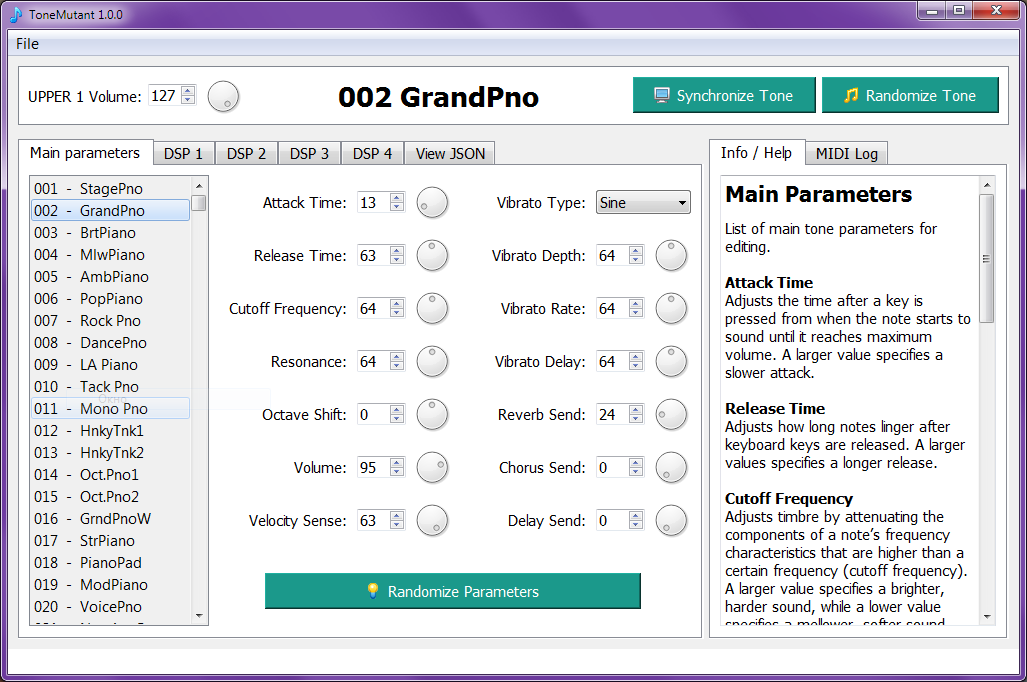
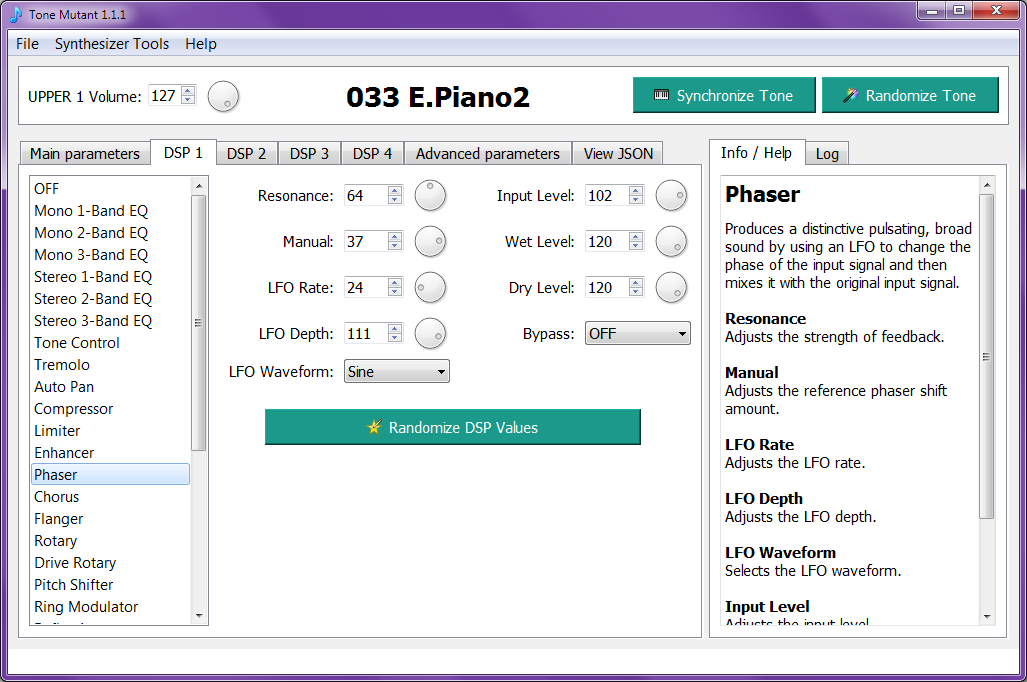
version 1.1.1

diff --git a/models/tone.py b/models/tone.py
@@ -77,28 +77,28 @@ class Tone:
             AdvancedParameter(4, 22, 0, "Sound B Wavetable",
                               "Wavetable of Sound B. Sound B is utilized for various supplementary events, such as note-off or double-stop effects, depending on the specific tone",
                               ParameterType.COMBO, [str(i) for i in range(901)]),
-            AdvancedParameter(5, 41, 0, "Sound B for Note-off",
+            AdvancedParameter(5, 114, 0, "Monophonic Mode",
+                              "In monophonic mode, the synthesizer produces only one note at a time, regardless of how many keys are pressed. If multiple keys are pressed simultaneously or in succession, the most recent key pressed takes priority and becomes the only note that sounds.",
+                              ParameterType.COMBO, ["OFF", "ON"]),
+            AdvancedParameter(6, 116, 0, "Portamento",
+                              "Portamento lets the sound slide smoothly from one note to the next instead of jumping.",
+                              ParameterType.COMBO, ["OFF", "ON", "Legato"]),
+            AdvancedParameter(7, 107, 0, "Portamento Time",
+                              "Portamento time controls how long it takes to slide from one note to another. A shorter time makes the slide quick, while a longer time creates a slow, smooth glide.",
+                              ParameterType.KNOB, [0, 127]),
+            AdvancedParameter(8, 4, 0, "Velocity to Cutoff",
+                              "Controls how velocity affects the filter cutoff (certain wavetables only).",
+                              ParameterType.KNOB, [0, 127]),
+            AdvancedParameter(9, 41, 0, "Sound B for Note-off",
                               "Sound B is triggered when a key is released, producing a sound specifically for the note-off action. This adds detail or effects to the end of a note, such as a fade, click, or other textures.",
                               ParameterType.COMBO, ["OFF", "ON"]),
-            AdvancedParameter(6, 42, 0, "Note-off velocity",
+            AdvancedParameter(10, 42, 0, "Note-off velocity",
                               "This refers to how the speed at which you press and release a key affects the velocity of Sound B.",
                               ParameterType.COMBO,
                               ["Note-off Velocity", "Note-on Velocity", "Minimum of Both", "Unknown"]),
-            AdvancedParameter(7, 115, 0, "Sound B for Double-stop",
+            AdvancedParameter(11, 115, 0, "Sound B for Double-stop",
                               "Sound B is triggered when two notes are played together, simulating the effect of a double-stop, as used in string instruments.",
                               ParameterType.COMBO, ["OFF", "ON"]),
-            AdvancedParameter(8, 114, 0, "Monophonic Mode",
-                              "In monophonic mode, the synthesizer produces only one note at a time, regardless of how many keys are pressed. If multiple keys are pressed simultaneously or in succession, the most recent key pressed takes priority and becomes the only note that sounds.",
-                              ParameterType.COMBO, ["OFF", "ON"]),
-            AdvancedParameter(9, 116, 0, "Portamento",
-                              "Portamento lets the sound slide smoothly from one note to the next instead of jumping.",
-                              ParameterType.COMBO, ["OFF", "ON", "Legato"]),
-            AdvancedParameter(10, 107, 0, "Portamento Time",
-                              "Portamento time controls how long it takes to slide from one note to another. A shorter time makes the slide quick, while a longer time creates a slow, smooth glide.",
-                              ParameterType.KNOB, [0, 127]),
-            AdvancedParameter(11, 4, 0, "Velocity to Cutoff",
-                              "Controls how velocity affects the filter cutoff (certain wavetables only).",
-                              ParameterType.KNOB, [0, 127]),
             AdvancedParameter(12, 80, 0, "Stretch Tuning",
                               "Specifies the stretch tuning, also known as the Railsback curve. A value of 0 is recommended for most instruments, while values from 1 to 7 may be suitable for piano or electric piano sounds.",
                               ParameterType.COMBO, [str(i) for i in range(8)])]

diff --git a/main.py b/main.py
@@ -10,8 +10,8 @@ from utils.utils import resource_path
 # Nuitka compiler options:
 # nuitka-project: --output-filename=ToneMutant
 # nuitka-project: --product-name=ToneMutant
-# nuitka-project: --product-version=1.1.0
-# nuitka-project: --file-version=1.1.0
+# nuitka-project: --product-version=1.1.1
+# nuitka-project: --file-version=1.1.1
 # nuitka-project: --file-description="Tone editor for Casio keyboards"
 # nuitka-project: --company-name="Barsik-Barbosik"
 # nuitka-project: --standalone

diff --git a/ui/main_window.py b/ui/main_window.py
@@ -22,7 +22,7 @@ from utils.utils import resource_path
 class MainWindow(QMainWindow):
     def __init__(self, parent=None):
         super().__init__(parent)
-        self.setWindowTitle("ToneMutant 1.1.0")
+        self.setWindowTitle("Tone Mutant 1.1.1")
         self.setWindowIcon(QIcon(resource_path("resources/note.png")))
 
         self.status_bar = QStatusBar(self)
